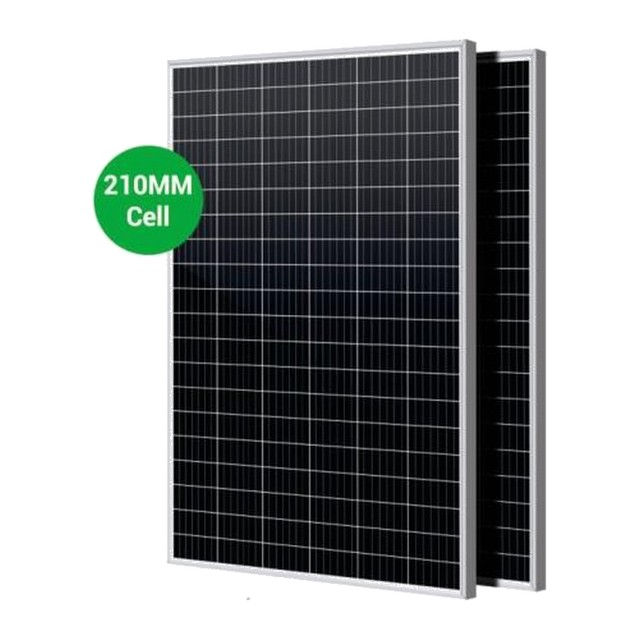
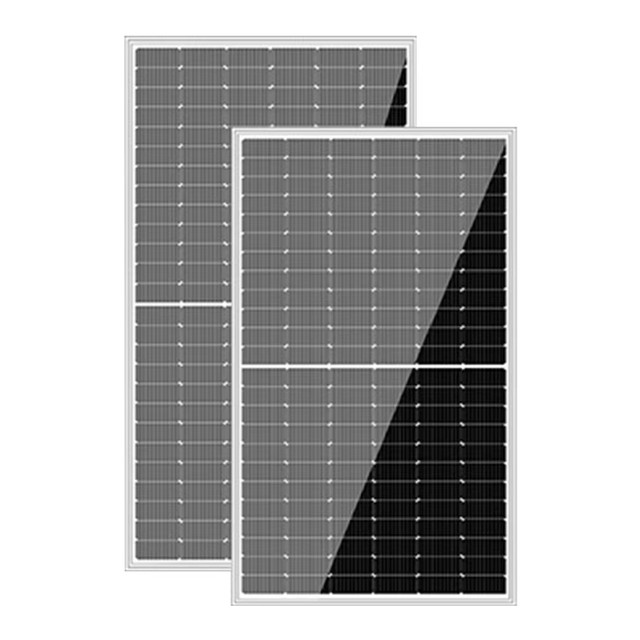
Solar: real premium product photos from Sohigh gallery + panel tile + install hero
- Replace weak graphic covers with real Sohigh studio photos from the official
  gallery: wall battery, rack/stack battery, hybrid inverter, MPPT controller,
  mono panels, complete kit, C&I cabinet — clean white, no bad trim.
- Solar department tile changed from ☀️ emoji to a solar-panel photo.
- Add a Solar hero banner (real marine install photo) on the landing.
  (Hero VIDEO slot ready — awaiting the .mov, which was purged again on upload.)

Claude-Session: https://claude.ai/code/session_017tuea2CbXtACAntAtBMu5J

diff --git a/index.html b/index.html
@@ -642,6 +642,11 @@
   .samph{flex-direction:column;gap:8px;}
   .samsoon{font-size:11.5px;color:var(--faint);font-weight:700;}
   .samcover{width:100%;height:100%;object-fit:contain;padding:10px;mix-blend-mode:multiply;}
+  .solarhero{position:relative;border-radius:18px;overflow:hidden;margin-bottom:10px;aspect-ratio:16/7;background:#0b1a2b;}
+  .solarhero img{width:100%;height:100%;object-fit:cover;display:block;}
+  .solarhero .shov{position:absolute;inset:0;display:flex;flex-direction:column;justify-content:flex-end;gap:4px;padding:16px 18px;background:linear-gradient(180deg,rgba(0,0,0,0) 30%,rgba(0,0,0,.62));}
+  .solarhero .shk{color:#fff;font-size:11.5px;font-weight:800;letter-spacing:.05em;opacity:.9;}
+  .solarhero .shh{color:#fff;font-size:19px;font-weight:800;letter-spacing:-.02em;line-height:1.15;max-width:80%;}
   .solarabout{background:linear-gradient(120deg,var(--card),var(--bg));border:1px solid var(--line);border-radius:18px;padding:16px 18px;margin-bottom:4px;}
   .solarabout .satitle{font-size:15px;font-weight:800;letter-spacing:-.01em;margin-bottom:6px;}
   .solarabout p{font-size:13px;color:var(--muted);line-height:1.55;margin:0 0 10px;}
@@ -1126,7 +1131,7 @@ const COLORS = ["No preference","Black","White / Silver","Blue","Green","Gold","
 const DEPARTMENTS = [
   { key:'phones',      name:'Phones',      ready:true,  img:'assets/cutouts/iphone-17-pro-max-back.webp' },
   { key:'bikes',       name:'Bikes',       ready:true,  img:'assets/bikes/icon-sport.png', href:'bikes.html' },
-  { key:'solar',       name:'Solar',       ready:true,  ph:'☀️' },
+  { key:'solar',       name:'Solar',       ready:true,  img:'assets/solar/panel-mono.jpg' },
   { key:'kitchen',     name:'Kitchen',     ready:true,  img:'catalog-import/covers/kitchen-appliances-SC-Y66.jpg' },
   { key:'accessories', name:'Accessories', ready:true,  dev:'headphones' },
   { key:'laptops',     name:'Laptops',     ready:false, dev:'laptop' },
@@ -1885,7 +1890,7 @@ function renderSolarGrid(){
   const items=solarList();
   if(!items.length){ $('grid').innerHTML='<div class="comingsoon" style="grid-column:1/-1"><div class="big">☀️</div>These are being priced — message us for a quote.</div>'; return; }
   window._solarById={}; items.forEach((s)=>window._solarById[s.id]=s);
-  const about=(category==='solar-systems'&&SOLAR.about)?`<div class="solarabout" style="grid-column:1/-1"><div class="satitle">☀️ Sohigh Solar</div><p>${esc(SOLAR.about)}</p><div class="sabadges"><span>Since 2005</span><span>Grade-A LiFePO₄</span><span>Pure sine wave</span><span>ISO · IEC · CE · SGS · TÜV</span><span>Panels 25-yr output</span></div></div>`:'';
+  const about=(category==='solar-systems'&&SOLAR.about)?`<div class="solarhero" style="grid-column:1/-1"><img src="assets/solar/hero.jpg" alt="Sohigh Solar installation" loading="lazy" onerror="this.remove()"><div class="shov"><div class="shk">☀️ Sohigh Solar · Power & Energy</div><div class="shh">Solar systems that run your home or business</div></div></div><div class="solarabout" style="grid-column:1/-1"><div class="satitle">Why Sohigh Solar</div><p>${esc(SOLAR.about)}</p><div class="sabadges"><span>Since 2005</span><span>Grade-A LiFePO₄</span><span>Pure sine wave</span><span>ISO · IEC · CE · SGS · TÜV</span><span>Panels 25-yr output</span></div></div>`:'';
   $('grid').innerHTML=about+items.map(s=>`
     <article class="pcard" data-solar="${esc(s.id)}">
       <div class="phero"><img class="samcover" src="${esc(s.cover)}" alt="${esc(s.name)}" loading="lazy" onerror="this.style.display='none'"><span class="sambadge">Sohigh Solar</span></div>